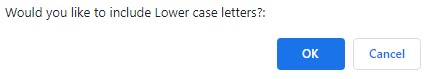
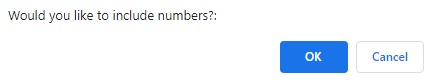
I have re-ordered the prompts to be in the same order as listed the requirements to avoid any confusion

diff --git a/script.js b/script.js
@@ -99,16 +99,10 @@ function getPasswordOptions() {
     alert("Please enter a valid password length between 10-64 characters");
     return getPasswordOptions();
   }
-  var includeSpecial = confirm("Would you like to include Special characters?: ")
-  var includeNum = confirm("Would you like to include numbers?: ")
   var includeLower = confirm("Would you like to include Lower case letters?: ")
   var includeUpper = confirm("Would you like to include Upper case letters?: ")
-  if (includeSpecial === true) {
-    passwordList = passwordList.concat(specialCharacters)
-  };
-  if (includeNum === true) {
-    passwordList = passwordList.concat(numericCharacters)
-  };
+  var includeNum = confirm("Would you like to include numbers?: ")
+  var includeSpecial = confirm("Would you like to include Special characters?: ")
   if (includeLower === true) {
     passwordList = passwordList.concat(lowerCasedCharacters)
   };
@@ -119,6 +113,12 @@ function getPasswordOptions() {
     alert("Please select at least one of the character types");
     return getPasswordOptions();
   }
+  if (includeNum === true) {
+    passwordList = passwordList.concat(numericCharacters)
+  };
+  if (includeSpecial === true) {
+    passwordList = passwordList.concat(specialCharacters)
+  };
 }
 
 // Function for getting a random element from an array

diff --git a/README.md b/README.md
@@ -10,18 +10,18 @@ This website allows the user to generate a password by accepting or denying cert
 To use the password generator you simply click the button on the main page.
 Upon doing so, a number of prompts will appear asking you to type the length of password you require (no less than 10 or more than 64)
 You will then be asked four questions, each of which you can click either 'OK' for yes or 'Cancel' for no.
-You will be asked if you want to include special characters/symbols, numbers, lower and upper case letters.
+You will be asked if you want to include lower and upper case letters, numbers, special characters/symbols.
 When the options have been selected, the newly generated random password will appear in the main box.
 You can then click the button again to go through the questions again and generate a new password.
 
 (Walkthrough images below)
 
-![opening-page](images/starter-screen.jpg)
-![first-option](images/first-option.jpg)
-![second-option](images/second-option.jpg)
-![third-option](images/third-option.jpg)
-![fourth-option](images/fourth-option.jpg)
-![fifth-option](images/fifth-option.jpg)
+![opening-page](images/starter-screen.jpg)<br>
+![first-option](images/first-option.jpg)<br>
+![second-option](images/second-option.jpg)<br>
+![third-option](images/third-option.jpg)<br>
+![fourth-option](images/fourth-option.jpg)<br>
+![fifth-option](images/fifth-option.jpg)<br>
 ![end-result](images/end-result.jpg)
 
 Link to active website: https://Leanne-Annable.github.io/PasswordGenerator
@@ -29,7 +29,7 @@ Link to active website: https://Leanne-Annable.github.io/PasswordGenerator
 
 ## Credits
 
-I looked up potential solutions on w3schools, stackoverflow and mozilla developer when i encountered issues with my code.
+I looked up potential solutions on w3schools, stackoverflow and mozilla developer when i encountered issues with my code.<br>
 I used 'favicon.io' to create a personal favicon icon. link - https://favicon.io/favicon-generator/
 
 
